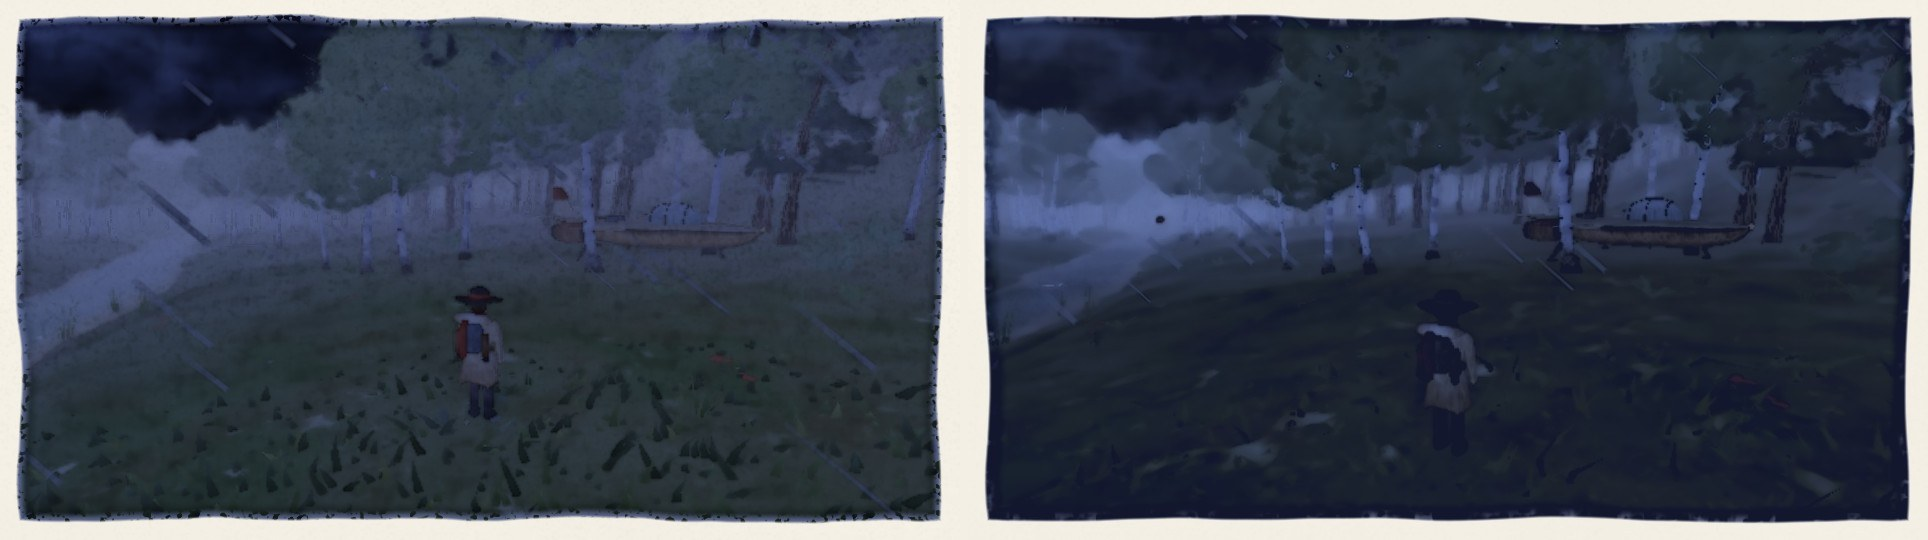
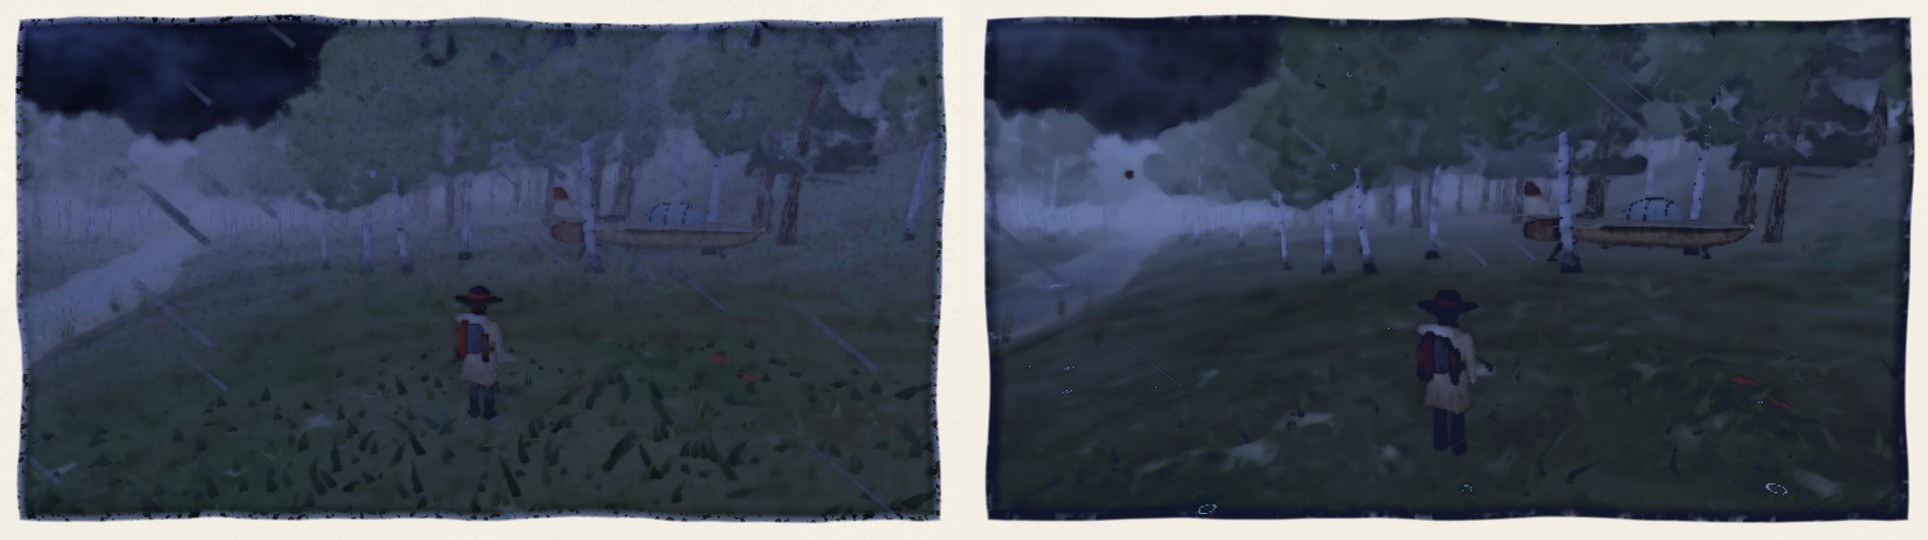
[painter] M3 block 3 notes: handover rewritten (the quality push first under next, PHYSICS' critique second), what is in with frames and verdicts, numbers (the vista 537 k / 305 and 240 k / 180 at the lead's tool before TRIM was restored; the storm 569 k / 303 after), what is weak, contract changes;

diff --git a/docs/notes/painter.md b/docs/notes/painter.md
@@ -6,58 +6,205 @@ first agent's record of M1 is kept at the end ("Earlier answers").
 
 ## Handover (read this first if you are a fresh PAINTER)
 
-Written by the fourth PAINTER agent at the end of M3 block 2 (the explorer and the ship, the
-near ground, rain as a glaze, dark washes), commit `6bb6c91`. The third agent's block
-(weather in the picture) and the second agent's M2 record follow.
+Written by the fifth PAINTER agent at the end of M3 block 3 (the two MUST items, day-night
+and space, pulse streaks, flicks, lightning, puddles). My commits: `e56d65e`, `139be13`; the
+last code is in `626b086` (the coordinator's snapshot of my files, taken as I finished). The fourth agent's
+block 2 (explorer and ship, near ground, glazes), the third's (weather) and the second's M2
+record follow.
 
-- **Where things stand**: M2 is done. M3 block 1 (weather) is in. **M3 block 2 is in**: the real
-  explorer and ship (`src/art/models.js`), a cast shade under both, the near ground layer
-  (`src/world/nearground.js`), a glaze pass (rain), soft settling instead of pepper in dark
-  washes, the sky numbers eased over two seconds. What each looks like, the numbers and what
-  is weak: "M3 block 2" below.
-- **Where things are** (all in my files):
-  `src/art/models.js`: a small geometry kit (`loft`, `path`, `capsule`, `blob`: every form is
-  a lofted shape with a hand-wobbled surface), a rig (`makeRig`: pivots; the mesh follows them
-  through a matrix palette), `createExplorer`, `createShip`.
-  `src/render/materials.js`: `makeFigureMaterial` (figures: one mesh, `aPart`, vertex colours,
-  `aMat` = dry, wet, glow), `makeNearMaterial` (the near strokes), plus the third agent's
-  terrain, water, props, wash. `src/render/chunks.js`: `pcCast` (the shade the explorer and
-  the ship lay on the ground; the world fills `G.uCast` from `userData.pcCaster`).
-  `src/world/nearground.js`: the strokes (clumps on cube-sphere cells, laid in a time slice).
-  `src/render/shared.js`: `GLAZES` (objects laid over the brushed picture), `G.uSceneAux`.
-  `src/render/post.js`: `finish(glazes, camera)` draws them after the abstraction pass; the
-  sheet's granulation (`dark`, `settle`). `src/render/kitmat.js`: `GLAZE = { rain: 1 }`.
-  `src/world/index.js`: `castShade`, the eased sky (`skyEase`), `setBuildBudget(ms, { fixed })`.
-  How the weather reaches the picture: the third agent's list under "M3 block 1".
-- **How to work here**: the machine is shared and slow (a 960x540 gallery frame takes one to
-  three minutes; run two at a time, never four). **Render from a clean export, not from the
-  working tree**: PHYSICS saves files while you render and a frame then has no physics or
-  dies on a half-written file (it happened again this run: `windLarge is not defined`).
-  Commit, `tools/export-head.sh <dir>`, then `ROOT=<dir> ./s.sh ...`. My scratch tools are in
-  `/home/user/.pc-scratch/painter/m4/` (outside the repository, may be gone; each is short):
-  `s.sh "<query>" out.jpg [w h]` (a gallery frame; honours `ROOT`), `join.py` (contact sheet),
-  `diff.py a b` (mean difference, share of changed pixels), `ev.mjs "<query>" "<js>"`
-  (evaluate in the gallery), `game2.mjs <export> <prefix> foot,cockpit,chase` (the integrated
-  game: third person at the Earth spawn, the cockpit, the chase view; prints the game's own
-  triangle and draw-call read-out), `cost.mjs earth spawn,temperate_forest` (cost at quality
-  1, 0, 2 in the gallery; `QX="&models=1"`), `final.sh`, `final2.sh` (the evidence batches).
-- **Rules that bit me** (and my predecessors): (1) render from an export (above). (2) In the
-  game, triangles are read from `__pc.info().stats` with `__pc.game.showStats = true`
-  (the game resets `renderer.info` itself); in the gallery with `autoReset = false` over a
-  frame. (3) Measure cost before and after every flora or near-ground change. (4) Anything
-  thin and transparent drawn in the scene pass is erased by the abstraction pass (over the
-  sky it keeps nothing): that is what the glaze pass is for. (5) An opaque mark lighter than
-  what is round it gets a dark pooled rim from the sheet. (6) A mesh under a body root is in
-  body-local metres: give it its own origin (`uOrigin`, `mesh.position`) or float precision
-  and my first hour are lost. (7) Scratch output with absolute paths; the tour only from a
-  clean export with `--out`.
-- **Next, in the coordinator's order**: what is weak in block 2 (the list under "M3 block 2":
-  the sward is still tufts, each blade a flat triangle; the explorer's face; the border under
-  a storm), then PHYSICS' branch sway and drifts, lightning (PILOT's `__pc.flash(frames)`
-  exists now; nobody has looked), day-night and space art pass, pulse streaks from `speed01`,
-  a repaint of the weakest biome of each planet, the lead's SHOULD FIX list (review 4:
-  three vistas in thickets, Mercury and Neptune from orbit, Earth's hard cloud edge, Mars'
-  ruler-straight dune crests, optional `yaw` on `getSpawn`).
+- **Where things stand**: M2 done; M3 blocks 1, 2 and 3 are in. Both MUST items are closed at
+  the lead's own instrument (numbers under "M3 block 3"). Night is its own painting now, space
+  has stars, the pulse drive has streaks. What is weak: the list at the end of "M3 block 3".
+- **Where the new things are** (all in my files):
+  `src/world/index.js`: the far-world tiers (`farTier`: 2 the world itself, 1 a dab made by
+  `makeDab`, 0 nothing: under the horizon, behind a closed sky, under 1.3 px), the sky veil
+  over far worlds by day, the night key (`SHEET.night`, `undens`), the sky glaze's frame hook
+  (pulse streaks, `MOTION`), `sky.fresh`.
+  `src/world/sky.js`: the sky pass (night clouds, layered space, `starOK` written to the aux
+  target's x) and `makeSkyGlaze` (stars and pulse streaks, laid after the abstraction pass).
+  `src/render/post.js`: the sheet's night key (`uNight`), the reserve (paper lights keep out
+  of the last glaze), dark and middle washes settling soft, the border of a dark wash, the
+  lightning lift by the share of open sky.
+  `src/render/shared.js`: `SHEET.night`, `MOTION` (speed01, space01, pulse, pulse01).
+  `src/art/models.js`: the ship's `animate` sets `MOTION.pulse` (that is how the streaks know).
+  `src/world/nearground.js` and `NEAR_VERT/FRAG` in `src/render/materials.js`: flicks (tufts,
+  lancet shape, `iPar.y` 2 = flick, 3 = a flick left crisp), splinters in clusters.
+  `src/render/materials.js`: puddles and the wet wash in shade (terrain), `stormy` (water).
+  Older pieces: the fourth agent's list is kept under "M3 block 2", the third's under block 1.
+- **How to work here**: the machine is shared and slow (a 960x540 gallery frame takes two to
+  four minutes, a game run six to ten; two at a time). **Render from a clean export**: PHYSICS
+  and PILOT save files while you render. To try uncommitted work: export HEAD and lay your own
+  files over it (`mkexp.sh` below). Scratch tools in `/home/user/.pc-scratch/painter/m5/`
+  (outside the repository, may be gone; each is short):
+  `mkexp.sh <name>` (clean export of HEAD plus my working files), `s.sh "<query>" out.jpg`
+  (a gallery frame; honours `ROOT`), `bd.mjs <export> <body:kind:id> 1,0 [prefix]` (the lead's
+  cost measure at one place with a per-object breakdown: this is what found the far worlds),
+  `storm.mjs <export> <prefix>` (the game at the Earth spawn in the first thunderstorm, clock
+  230 to 244 s, then the same at 21 h; counts, breakdown, `world.update` times),
+  `pulse.mjs <export> <prefix>` (the game: orbit, deep space, the pulse drive toward Mars),
+  `crop.py`, `pair.py`, `join.py`. The lead's own: `node tests/cost.mjs --root <export>
+  --places "earth:vista:earth-temperate_forest-1" --qualities 1,0 --sheets <scratch dir>`
+  (give `--sheets`, or it overwrites the lead's evidence) and `tests/weather.mjs` (its storm
+  times are the old ones: the first storm is at 160 to 320 s since PHYSICS' P8.3).
+- **Rules that bit me** (and my predecessors): (1) render from an export. (2) When a frame
+  costs more than it should, list what is drawn before trimming anything (`bd.mjs`): the
+  vista's overrun was four far planets, not trees. (3) The sheet's night key squares every
+  value, so anything the sky pass paints at night must be laid lighter (`undens`) or it goes
+  black; bare paper stays paper, so whatever must not glow at night needs a wash (clouds).
+  (4) Anything small and bright in the scene pass is eaten by the brush: lay it as a glaze
+  (stars). (5) A crisp mark darker than its ground is pooled darker still by the sheet: keep
+  accents close to the ground's value. (6) to (8): the fourth agent's rules 4 to 6 under
+  "M3 block 2" still hold (thin transparent things, light marks get a dark rim, body-local
+  meshes need their own origin).
+- **Next, first: the quality push the owner asked for** (no budget any more; the top tier is
+  where the look is judged). Not started by me. Raise what was set with 600 k in mind: fuller
+  trees out to where they still read (`T0`, `T1`, `T_THIN`, `T_FAR`, `RANGE_SCALE` in
+  `src/world/flora.js`), a sward that is a sward (`CELL` 0.66 m, `PER` 8, `MAXS` 6400,
+  `RANGE` 11 m in `src/world/nearground.js`: more and nearer tufts, a longer range; with the
+  flicks close to the ground's value a denser sward will not turn to teeth), denser flora and
+  props where a biome looks sparse. Render the Earth spawn and the forest vista before and
+  after at quality 2, open both, keep the better painting; report `world.update`'s worst
+  frame (the near layer's build is the part that grows).
+- **Then PHYSICS' critique of the picture** (frames `docs/shots/physics/painted-*.jpg`, not
+  opened by me): the storm's ground is still sunlit green under a black sky at the gust front
+  (the ground wants to lose its sun as the storm sky comes over, before `overcast` closes);
+  the blizzard is white flakes on white (flakes want a darker wash behind them, or to be laid
+  as shadowed marks); dust walls are hard pale blots and Mars' sand streaks darker than the
+  dune (they want to be a soft glaze, like rain); Neptune's far sea has no swell line
+  (`pcPhysWaterCrestLine`); a tree leaning in a gale reads as a calm tree in a still (the
+  crown does not shear against the trunk).
+- **Then, in the coordinator's order** (item 4 of block 3, mostly not done): white horses on
+  Neptune's sea (`pcPhysWaterCrestLine`, PHYSICS' notes P7), something in the air in the dust
+  storm, the two vistas in a thicket (`mercury-crystal_gardens-2`, `uranus-frozen_waves-2`:
+  `Surface.clearings` in `src/world/surface.js` is the mechanism, it must be fixed before
+  anything samples flora), Mercury and Neptune from orbit, Mars' dune crests, PHYSICS' branch
+  sway (`pcPhysBranch`) and drifts; then what is weak below; M4 is the critique swap and a
+  repaint of the weakest biome per planet.
+
+## M3 block 3: the MUST items, day-night, space, pulse, flicks (fifth PAINTER agent)
+
+INTEGRATION: ready (`626b086`; the game on a clean export loads and plays on foot, in orbit,
+in deep space and in the pulse drive with no console error; 19 world tests and the project's 109 tests pass on a clean export of `895a178`).
+
+### The two MUST items
+- **Cost, at the lead's instrument** (`tests/cost.mjs`, clean export, the game, fair weather):
+  vista `earth-temperate_forest-1` **537 k / 305 at quality 1** (was 614 k / 341; budget 600 k /
+  350) and **240 k / 180 at quality 0** (was 315 k in my run, 304 to 306 k in the lead's; budget
+  300 k). The thunderstorm at the Earth spawn: **524 k / 286** (the lead's 606 k / 315; the same
+  storm with the sun put at 21 h: 523 k / 287).
+  What it was: not trees. Every far world in the view frustum was submitted in full (14 k
+  triangles of terrain and 6 draw calls each, plus water and a cloud shell: up to 25 k and
+  13 calls a world), seen or not. At the vista four of them stood in the view (Mercury, Venus,
+  Uranus, Pluto: 72 k triangles, 36 calls, for one dot of ten pixels and three of under one
+  pixel); "the storm after dark" was Neptune behind the cloud. Now a far world that cannot be
+  seen is not drawn (wholly under the horizon, behind a closed sky, or under 1.3 px of radius),
+  one under about 9 px is a dab (a washed ball, 320 triangles, one call; hysteresis 8 to 10 px)
+  and by day it is veiled by the sky it is seen through. Nothing was trimmed from the flora:
+  `TRIM` and `MAXS` are as they were.
+  `world.update` in the storm frame, software rendering under load: mean 1.2 to 1.7, ninetieth percentile 3.1 to 4.8, worst 7.6 to 8.9 (50 frames at 13 h and 50 at 21 h; the same script on `62d061a` gave 1.1 to 1.7, 4.3 to 6.1 and 8.7 to 9.2: no change from this block; the worst frame is over 5 ms here as it was, on a machine at a load of 15) ms.
+- **Pepper**: (a) saturated middle washes (Neptune's sky) and everything under the night's
+  glaze now settle soft instead of in pits (`pepper-neptune.jpg`, before | after: opened both
+  at full size; the after's sky enlarged three times before, not after); (b) the border of a
+  dark wash is ragged in broad pieces with a pooled rim and a few flecks of paper, no pale rim
+  with dark dots in it (`night-storm.jpg`; `space-deep.jpg`). The lead closed the washes
+  himself on `0de3fb4`; the border he saw there is the old one.
+
+### What is in, the frame that shows it, my verdict
+Frames in `docs/shots/painter/`, 960x540 each, quality 1. Pairs are before | after.
+Opened at full size, each half as its own frame: `pepper-neptune`, `night-earth` (the after
+one commit earlier, and the last render on a two-frame sheet at full width), `space-orbit`,
+`flash`, `flicks-lawn`, `night-storm`; `space-deep`, `space-pulse`; `daynight-mars` and
+`daynight-uranus` as stored (two frames stacked); `night-mars`, `night-uranus` on two-frame
+sheets at full width; `wx-neptune-gale` and the lower half of `near-saturn`'s after on one
+sheet. **Not opened in the stored render**: `daynight-earth` (the same two frames one commit
+earlier were opened, with the old strokes in them), `wx-earth-blizzard` (opened one tweak
+earlier: a few more stems came through), `wx-earth-storm` (the same view one commit earlier
+was opened), the before half of `near-saturn` beyond its first render.
+
+| what | frame | verdict |
+| --- | --- | --- |
+| night on Earth | `night-earth.jpg` (gallery, forest easel, 23 h) | yes. Before: the day multiplied by blue. After: a nocturne: tree masses run together into deep indigo-green, the sky is a middle indigo paling to a band over the wood with a pale lifted cloud, and the lights are reserved paper: birch trunks, the stream's reflections, the canopy glass, the coat, five stars. Weak: the foreground ground is one flat dark; edges are all crisp (a nocturne wants more lost edges); the coat is the brightest thing in the picture |
+| dawn and dusk on Earth | `daynight-earth.jpg` (dawn over dusk) | yes: a rose-lilac dawn sky with long cool shade; a warm grey-gold dusk on toned paper. Dusk's sky wants more gold at the horizon |
+| Mars | `daynight-mars.jpg` (dawn over dusk), `night-mars.jpg` | yes, the best of the set: a salmon dawn with mesas stepping back in mauve layers; the blue dusk; at night dark sepia terraces with pale strata under a deep sky with stars. Weak: the night sky is nearly one value |
+| Uranus | `daynight-uranus.jpg` (dawn over dusk; rendered before the splinters were clustered), `night-uranus.jpg` | yes: mint sky to rose at dawn, teal to gold at dusk with the spire lit cream; at night the spire and the shelf are the reserved lights |
+| space, in orbit | `space-orbit.jpg` | yes. Before: one soft wash, no stars. After: two layers of indigo with lost and found edges, a violet drift, spattered stars of unequal size |
+| deep space, the game | `space-deep.jpg` | yes: layered washes, about seventy stars, the sun as bare paper with a halo, the ship's two warm lights |
+| pulse drive, the game at 5.3 km/s | `space-pulse.jpg` | yes: pale drags lifted out of the wash run out from the point the ship flies toward, soft-edged, wandering a little, dry at their tails; stars fade under them. Not seen in motion. Weak: a little like combed hair where many lie side by side |
+| lightning | `flash.jpg` (before: the game on `e56d65e`; after: gallery, storm at 21 h, flash forced) | yes: the open sky goes to bare paper, trees and trunks stand as silhouettes, no fringe of specks in the crowns. Weak: the crown edge against the paper is stepped in places (the sky mask is at the scene's resolution) |
+| near strokes as flicks | `flicks-lawn.jpg` (the lead's vista in the game), `wx-earth-storm.jpg`, `near-saturn.jpg` | yes for the lawn: tufts of soft touches close to the ground's value, a few olive accents, uneven; no teeth. On Saturn the splinters stand in loose clusters of unequal size. Weak: at the boom's distance most flicks merge into the wash, so the lawn is quieter than a painter would leave it; not judged in first person or in motion |
+| none on snow | `wx-earth-blizzard.jpg` (gallery, fresh snow forced) | yes: the snowfield is bare paper; two or three tall stems come through. PHYSICS' `sky.fresh` drives it in the game (not rendered in the game by me) |
+| puddles, wet shade | `wx-earth-storm.jpg` (the game, the thunderstorm at 13 h) | partly: the shade under the trees is no longer a row of dark holes; puddles are faint pale soft shapes on the lawn, hard to find. At a stronger setting they covered a third of the lawn like snow patches: there is no hollow to put them in, only flat ground and a noise |
+| Neptune's sea takes the storm | `wx-neptune-gale.jpg` (gallery, forced storm) | partly: sea and beach go dark indigo under the closed sky. No white horses (not done) |
+| the storm after dark | `night-storm.jpg` (before: the game on `62d061a`; after: the game, sun put at 21 h) | see the file: yes as a picture: a low-key wet night, the storm sky the darkest wash with a pale band under it, trunks, the ship and the coat as the lights, the border a clean ragged edge. Dark for play: the explorer reads by the coat. One dark round blot in the air is a flying leaf (PHYSICS' kit in my ink): it wants to be a flick |
+
+### How each part works
+- **Night key** (sheet pass). Three things, by `SHEET.night` (1 at night on the ground, 0 by
+  day and in space): the hue narrows toward indigo; every wash is given 0.68 to 0.94 more
+  pigment by the density model, so darks and middles run together and bare paper stays bare;
+  the last glaze over the sheet is light ([0.64, 0.70, 0.90], was [0.42, 0.48, 0.70]) and
+  what is near paper is kept out of it (the reserve). The world lays the sky's keys lighter
+  by the inverse of the density (`undens`), so the sky lands on the look's night values.
+  The brush is a little broader and wetter at night and the pencil nearly gone.
+- **Stars and streaks** are one glaze object (`pc-sky-glaze`, one triangle, drawn after the
+  abstraction pass only at night, in space or under the drive). Stars: one dot at most per
+  cell of two cube-map grids, radius 1.3 to 4.4 px, where the sky pass allows (no cloud, no
+  overcast, above the horizon haze, out of the sun's glare). Streaks: in polar coordinates
+  round the ship's heading (`userData.pcCaster === 'ship'`, else the camera's), sectors with a
+  drag each, flowing outward in log radius; strength is `pulse01` (eased 0.45 s from the
+  ship model's `mode: 'pulse'`) or, at a full cruise in space, 0.16 of it from `speed01`.
+- **Flicks**. A cell has no tuft (one in five), one or two; blades start within 8 cm of the
+  tuft's root, fan out, most short, the leader long; the shape is narrow at the root, full
+  at a third, a point at the tip. Washes: two thirds of the way to the ground's own, a third
+  of them paler, one in seven an accent (denser, left crisp). Under fresh snow all but the
+  tallest are gone by half cover.
+- **Lightning**: the lift to paper is by the share of open sky in five taps, so the gaps
+  inside a crown stay with the crown; during a flash light things are reserved from the
+  night's glaze.
+
+### Not done, not verified, weak (blunt)
+- **Not done from item 4**: white horses, the dust storm near the explorer, the two vistas in
+  a thicket, Mercury and Neptune from orbit, Mars' dune crests, branch sway, drifts.
+- **Not verified**: anything in motion (streak flow, star stability under a turn, flicks
+  under the storm wind: the stills show no torn or stretched strokes, which is all I can
+  say); quality 0 and 2 looks; the tour; other bodies' densest views (the far-world change
+  can only lower them); a real GPU. `tests/weather.mjs` was run on `e56d65e` only (five
+  frames; its "neptune-gale-forced" frame stayed on the meadow because of `--only`).
+- **Storm wind on trees and strokes** (PHYSICS asked): in three storm stills nothing is torn,
+  stretched or laid flat; I cannot say more without motion.
+- **Rain**: with PHYSICS' own share I count about twenty strokes in the frame in the
+  thunderstorm (it says 37 are in view): enough to read as rain, soft, paler than the wood.
+- Puddles are weak (above). The walker's track and the ship's wash were not re-rendered with
+  the flicks (`wx-grass-part.jpg`, `wx-grass-wash.jpg` removed as stale; trodden blades are
+  now only a little paler and broader, so the track will read less).
+- `models-*.jpg` and M2's biome frames predate this block (old strokes, old night).
+- A far world between 8 and 10 px of radius swaps from dab to terrain in one frame (no
+  cross-fade); a dab has no clouds, bands or rings' shadow; a far world behind a closed sky
+  vanishes at overcast 0.6 without a fade.
+
+### Contract changes in this block (all additive; nothing removed)
+- `setMood.speed01` and `inSpace01` are now read (streaks at a full cruise in space).
+- The ship's `animate({ mode: 'pulse' })` switches the streaks on (no new call for PILOT).
+- `sky.fresh` (PHYSICS) is the fresh-snow cover when present; my own model is the fallback.
+- `sampleObstacles`: a boulder's `height` is 0.58 of its scale (was 0.5): the top of the
+  drawn boulder over the ground beside it. The largest boulder is about 1.2 m.
+- Render: `SHEET.night`, `MOTION`; the sky writes where stars may lie into the aux target's
+  x for region 0. World: `world._glaze` (a debug string). Gallery: `odist=`, `chase=1`
+  (`cdist=`, `cdown=`, `cside=`), `speed01=`.
+- I no longer close the sky under rain or snow myself (PHYSICS does), and the rain share
+  is PHYSICS' own.
+
+### For PHYSICS
+- Snow: `sky.fresh` is used. Rain: your share is used as it is; about twenty strokes show in
+  the thunderstorm. Storm wind: no damage seen in stills; nobody has watched it.
+- Still open from my side: `pcPhysWaterCrestLine` (white horses), `pcPhysBranch`, drifts.
+
+### For PILOT (and the lead)
+- `tests/weather.mjs` still looks for the storm at 720 s; it is at 160 to 320 s now.
+- A cleaner signal for the streaks would be `mood.pulse01` (0 to 1); today I read the ship
+  model's mode. If you want no drags at a plain cruise, say so (one constant, 0.16).
+- Boulders: all are under 1.3 m by their true height, so all are walked over; if some should
+  block, tell me the size and I will grow a few.
+- **UI second look (PILOT asked): not done.** No interface frame was opened in this block.
 
 ## M3 block 2: explorer and ship, near ground, glazes, dark washes (fourth PAINTER agent)
 
@@ -726,6 +873,9 @@ import { createExplorer, createShip } from './src/art/models.js';
   its back), `epitch=`; ship `smode=landed|hover|fly|pulse`, `gear=`, `canopy=`, `throttle=`,
   `sface=<deg>`; `cockpit=1` the view from the ship's seat (fov 62, near 0.12 m);
   `near=0` hides the near ground strokes
+- space: `cam=orbit&odist=<radii>` (how far out, default 2.6), `chase=1` (the ship ahead of
+  the camera, flying where it looks; `cdist=`, `cdown=`, `cside=`), `smode=pulse` (streaks),
+  `speed01=<0..1>` (the mood's speed); lightning: `wx=storm&sky=flash:1`
 - `window.__pcReady` once terrain and flora have settled and three frames are painted (and,
   with `physics=1`, once PHYSICS and its kits are loaded);
   `window.__pcVantage` the easel in use.
